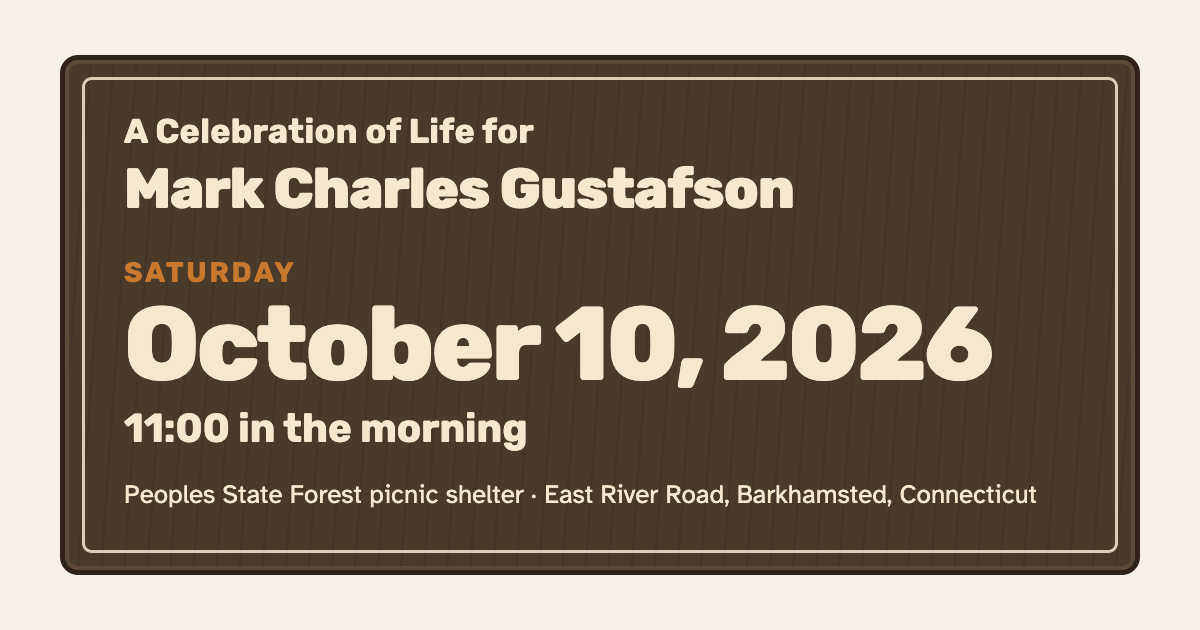
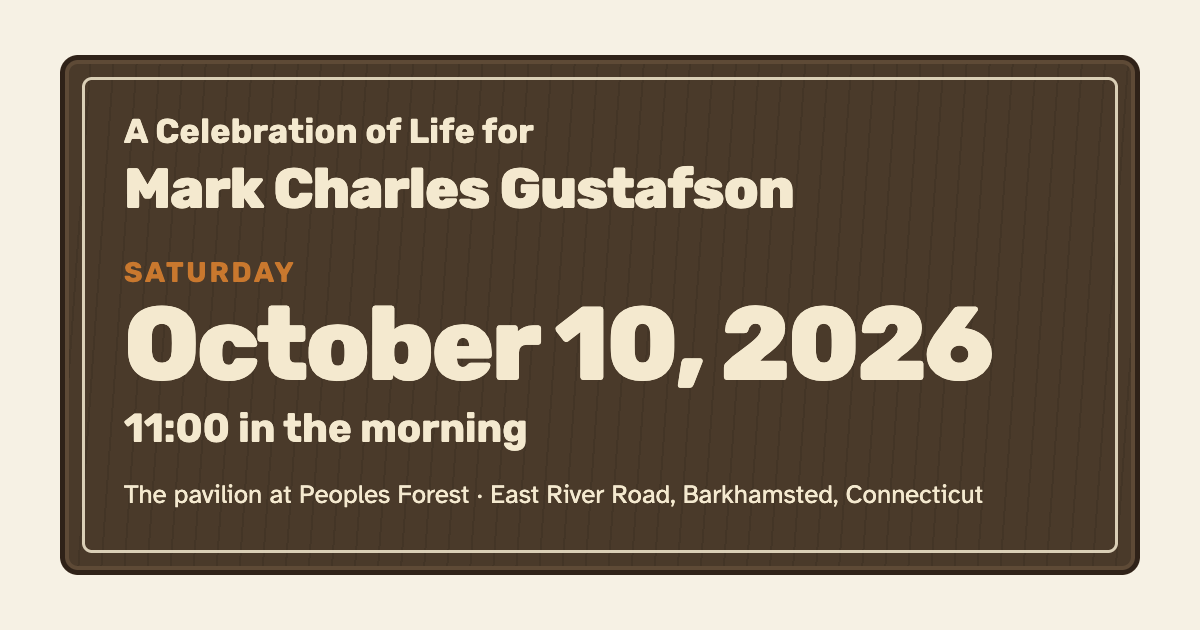
Call the venue the pavilion at Peoples Forest
Claude-Session: https://claude.ai/code/session_01D2KCLuXMmNdjBQxYMfdNqn

Changed region(s): [[0.0925, 0.754, 0.8633, 0.8143]]

diff --git a/directions.html b/directions.html
@@ -4,10 +4,10 @@
 <meta charset="utf-8">
 <meta name="viewport" content="width=device-width, initial-scale=1, viewport-fit=cover">
 <title>Getting there — Celebrate Mark</title>
-<meta name="description" content="Step-by-step directions to the Peoples State Forest picnic shelter in Barkhamsted, CT for Mark Gustafson's celebration of life on October 10, 2026, with a map of the last mile, parking, and GPS coordinates.">
+<meta name="description" content="Step-by-step directions to the pavilion at Peoples Forest in Barkhamsted, CT for Mark Gustafson's celebration of life on October 10, 2026, with a map of the last mile, parking, and GPS coordinates.">
 <link rel="canonical" href="https://celebratemark.life/directions.html">
 <meta property="og:title" content="Getting there — Celebrate Mark">
-<meta property="og:description" content="Step-by-step directions to the Peoples State Forest picnic shelter in Barkhamsted, CT for Mark Gustafson's celebration of life on October 10, 2026, with a map of the last mile, parking, and GPS coordinates.">
+<meta property="og:description" content="Step-by-step directions to the pavilion at Peoples Forest in Barkhamsted, CT for Mark Gustafson's celebration of life on October 10, 2026, with a map of the last mile, parking, and GPS coordinates.">
 <meta property="og:type" content="website">
 <meta property="og:url" content="https://celebratemark.life/directions.html">
 <meta property="og:image" content="https://celebratemark.life/assets/share-card.png">
@@ -51,7 +51,7 @@
     <div class="wrap">
       <div class="section-head">
         <h1 id="dir-title" class="page-title"><span class="plank">Getting there</span></h1>
-        <p>Peoples State Forest picnic shelter, East River Road, Barkhamsted, Connecticut 06063. Saturday, October 10, 2026 at 11:00 AM.</p>
+        <p>The pavilion at Peoples Forest, East River Road, Barkhamsted, Connecticut 06063. Saturday, October 10, 2026 at 11:00 AM.</p>
       </div>
 
       <div class="plaque-row" style="margin-top:0">
@@ -79,7 +79,7 @@
             <span class="label">Copy coordinates</span>
           </button>
         </div>
-        <div class="plaque-row" data-share-directions="Celebration of Life for Mark Gustafson. Saturday, October 10, 2026, 11:00 AM. Peoples State Forest picnic shelter, East River Road, Barkhamsted, CT 06063. From Route 44, take Route 318 in Barkhamsted, cross the steel bridge, immediate left onto East River Road, about 1 mile up on the left. GPS 41.92333, -72.99833. Park office (860) 379-2469. https://celebratemark.life/directions.html">
+        <div class="plaque-row" data-share-directions="Celebration of Life for Mark Gustafson. Saturday, October 10, 2026, 11:00 AM. The pavilion at Peoples Forest, East River Road, Barkhamsted, CT 06063. From Route 44, take Route 318 in Barkhamsted, cross the steel bridge, immediate left onto East River Road, about 1 mile up on the left. GPS 41.92333, -72.99833. Park office (860) 379-2469. https://celebratemark.life/directions.html">
           <a class="plaque" href="#" data-sms>
             <svg viewBox="0 0 24 24" fill="none" stroke="currentColor" stroke-width="2" stroke-linecap="round" stroke-linejoin="round" aria-hidden="true"><path d="M4 12l16-8-6 16-2-6-8-2z"/></svg>
             Text these directions to someone
@@ -104,13 +104,13 @@
         <li><strong>Turn onto Route 318</strong> at the traffic light in Barkhamsted, signed for Pleasant Valley. Coming from the Hartford side, Route 318 is a right turn. Coming from Winsted, it is a left.</li>
         <li><strong>Cross the steel bridge</strong> over the Farmington River. It is a short, green truss bridge; you will know it when you see it.</li>
         <li><strong>Turn left immediately</strong> after the bridge onto <strong>East River Road</strong>. The turn comes fast, right at the end of the bridge.</li>
-        <li><strong>Drive about one mile</strong> north along the river. The Peoples State Forest recreation area entrance is on your <strong>left</strong>, between the road and the river. Park in the lot and walk the short path to the shelter, about 150 feet.</li>
+        <li><strong>Drive about one mile</strong> north along the river. The Peoples State Forest recreation area entrance is on your <strong>left</strong>, between the road and the river. Park in the lot and walk the short path to the pavilion, about 150 feet.</li>
       </ol>
 
       <figure class="lastmile reveal">
         <svg viewBox="-28 -28 956 616" role="img" aria-labelledby="map-title map-desc">
           <title id="map-title">Sketch map of the last mile</title>
-          <desc id="map-desc">Route 44 runs across the bottom. Route 318 turns north from it, crosses a steel bridge over the Farmington River, and East River Road turns left right after the bridge, running north along the river about one mile to the picnic shelter, which sits between the road and the river.</desc>
+          <desc id="map-desc">Route 44 runs across the bottom. Route 318 turns north from it, crosses a steel bridge over the Farmington River, and East River Road turns left right after the bridge, running north along the river about one mile to the pavilion, which sits between the road and the river.</desc>
           <rect x="-28" y="-28" width="956" height="616" fill="#f2ecdc"/>
           <path d="M0 470 C 200 462 400 476 600 468 C 750 462 830 470 900 466 L900 560 L0 560 Z" fill="#dfe8dc" opacity=".7"/>
           <path d="M540 0 C 520 80 560 160 530 240 C 500 320 560 400 520 470 C 505 500 510 540 500 560" fill="none" stroke="#7fa3b4" stroke-width="42" stroke-linecap="round"/>
@@ -138,7 +138,7 @@
             <path d="M0 0 L26 -20 L52 0 Z" fill="#2f2218"/><path d="M6 0 H46 M10 0 V24 M42 0 V24" stroke="#2f2218" stroke-width="5" stroke-linecap="round"/>
             <circle cx="26" cy="-40" r="14" fill="#c9782e" stroke="#2f2218" stroke-width="3"/><path d="M26 -47 v14 M19 -40 h14" stroke="#2f2218" stroke-width="3" stroke-linecap="round"/>
           </g>
-          <text x="610" y="60" font-family="Rubik, sans-serif" font-weight="800" font-size="24" fill="#1f1a14">Picnic shelter</text>
+          <text x="610" y="60" font-family="Rubik, sans-serif" font-weight="800" font-size="24" fill="#1f1a14">Pavilion</text>
           <text x="610" y="86" font-family="Atkinson Hyperlegible, sans-serif" font-size="18" fill="#4d4338">parking, then a 150 ft walk</text>
           <g transform="translate(60 60)"><circle cx="0" cy="0" r="26" fill="#f4e9cf" stroke="#4a3a2a" stroke-width="3"/><path d="M0 -18 L8 8 L0 2 L-8 8 Z" fill="#4a3a2a"/><text x="0" y="46" text-anchor="middle" font-family="Rubik, sans-serif" font-weight="700" font-size="16" fill="#4a3a2a">N</text></g>
           <text x="860" y="130" text-anchor="end" font-family="Atkinson Hyperlegible, sans-serif" font-size="16" fill="#4d4338">Not to scale</text>
@@ -171,11 +171,11 @@
         <h2 id="park-title"><span class="plank">At the park</span></h2>
       </div>
       <ul class="facts">
-        <li><span class="k">Parking</span><span class="v">Free for cars with Connecticut plates. Cars with out-of-state plates pay <strong>$15 on weekends</strong> at the entrance. The lot is about 150 feet from the shelter along a level park path.</span></li>
+        <li><span class="k">Parking</span><span class="v">Free for cars with Connecticut plates. Cars with out-of-state plates pay <strong>$15 on weekends</strong> at the entrance. The lot is about 150 feet from the pavilion along a level park path.</span></li>
         <li><span class="k" id="access">If walking is hard</span><span class="v">The park does not normally allow cars up to the pavilion, but it makes arrangements in advance for anyone who needs to be dropped closer. Please call the park office at <a href="tel:+18603792469">(860) 379-2469</a> during the week before, or ask the family to arrange it for you on the <a href="share.html#rsvp">RSVP form</a>.</span></li>
-        <li><span class="k">Restrooms</span><span class="v">Flush toilets and drinking water are at the picnic area, a short walk from the shelter.</span></li>
-        <li><span class="k">The shelter</span><span class="v">A covered pavilion about 30 by 60 feet with picnic tables and a stone fireplace, open on the sides, beside the river. Seats about 100 under the roof, with room all around it.</span></li>
-        <li><span class="k">Hours</span><span class="v">The park opens at 8:00 AM. The shelter is ours until a half hour before sunset, about 5:45 PM.</span></li>
+        <li><span class="k">Restrooms</span><span class="v">Flush toilets and drinking water are at the picnic area, a short walk from the pavilion.</span></li>
+        <li><span class="k">The pavilion</span><span class="v">A covered pavilion about 30 by 60 feet with picnic tables and a stone fireplace, open on the sides, beside the river. Seats about 100 under the roof, with room all around it.</span></li>
+        <li><span class="k">Hours</span><span class="v">The park opens at 8:00 AM. The pavilion is ours until a half hour before sunset, about 5:45 PM.</span></li>
         <li><span class="k">Dogs</span><span class="v">Welcome in the park on a leash.</span></li>
         <li><span class="k">Park office</span><span class="v"><a href="tel:+18603792469">(860) 379-2469</a> · <a href="https://ctparks.com/parks/peoples-state-forest" target="_blank" rel="noopener">Peoples State Forest on ctparks.com</a></span></li>
       </ul>
@@ -187,7 +187,7 @@
 <footer class="site-footer">
   <div class="wrap">
     <p class="memo routed">In memory of Mark Charles Gustafson, November 14, 1959 to August 28, 2026.</p>
-    <p>Saturday, October 10, 2026 at 11:00 AM · Peoples State Forest picnic shelter, East River Road, Barkhamsted, CT 06063 · Park office <a href="tel:+18603792469">(860) 379-2469</a></p>
+    <p>Saturday, October 10, 2026 at 11:00 AM · The pavilion at Peoples Forest, East River Road, Barkhamsted, CT 06063 · Park office <a href="tel:+18603792469">(860) 379-2469</a></p>
     <nav aria-label="Footer">
       <ul>
         <li><a href="index.html">Home</a></li>

diff --git a/index.html b/index.html
@@ -4,10 +4,10 @@
 <meta charset="utf-8">
 <meta name="viewport" content="width=device-width, initial-scale=1, viewport-fit=cover">
 <title>Celebrate Mark — Saturday, October 10, 2026, 11 AM, Peoples State Forest</title>
-<meta name="description" content="A Celebration of Life for Mark Charles Gustafson of West Hartford, Connecticut, 1959 to 2026. Saturday, October 10, 2026 at 11:00 AM at the Peoples State Forest picnic shelter, East River Road, Barkhamsted. Directions, places to stay, his obituary, and a place to share a memory.">
+<meta name="description" content="A Celebration of Life for Mark Charles Gustafson of West Hartford, Connecticut, 1959 to 2026. Saturday, October 10, 2026 at 11:00 AM at the pavilion at Peoples Forest, East River Road, Barkhamsted. Directions, places to stay, his obituary, and a place to share a memory.">
 <link rel="canonical" href="https://celebratemark.life/">
 <meta property="og:title" content="Celebrate Mark — Saturday, October 10, 2026">
-<meta property="og:description" content="A Celebration of Life for Mark Charles Gustafson. 11:00 AM at the Peoples State Forest picnic shelter, Barkhamsted, CT.">
+<meta property="og:description" content="A Celebration of Life for Mark Charles Gustafson. 11:00 AM at the pavilion at Peoples Forest, Barkhamsted, CT.">
 <meta property="og:type" content="website">
 <meta property="og:url" content="https://celebratemark.life/">
 <meta property="og:image" content="https://celebratemark.life/assets/share-card.png">
@@ -29,7 +29,7 @@
   "eventAttendanceMode": "https://schema.org/OfflineEventAttendanceMode",
   "location": {
     "@type": "Place",
-    "name": "Peoples State Forest picnic shelter",
+    "name": "The pavilion at Peoples Forest",
     "address": { "@type": "PostalAddress", "streetAddress": "East River Road", "addressLocality": "Barkhamsted", "addressRegion": "CT", "postalCode": "06063", "addressCountry": "US" },
     "geo": { "@type": "GeoCoordinates", "latitude": 41.92333, "longitude": -72.99833 }
   },
@@ -81,7 +81,7 @@
         <div class="place cut">
           <svg viewBox="0 0 24 24" fill="none" stroke="currentColor" stroke-width="2" stroke-linecap="round" stroke-linejoin="round" aria-hidden="true"><path d="M12 21s-7-6.2-7-11a7 7 0 0 1 14 0c0 4.8-7 11-7 11z"/><circle cx="12" cy="10" r="2.5"/></svg>
           <div>
-            <div class="place-name routed">Peoples State Forest picnic shelter</div>
+            <div class="place-name routed">The pavilion at Peoples Forest</div>
             <div class="place-detail">East River Road, Barkhamsted, Connecticut · on the Farmington River · about 40 minutes from West Hartford</div>
           </div>
         </div>
@@ -125,12 +125,12 @@
         <p>Everything you need to know to get there and be comfortable. Full details are on the other pages.</p>
       </div>
       <ul class="facts reveal">
-        <li><span class="k">When</span><span class="v">Saturday, October 10, 2026, beginning at 11:00 AM. <small>Come when you can. The park asks everyone to leave the shelter by a half hour before sunset, about 5:45 PM.</small></span></li>
-        <li><span class="k">Where</span><span class="v">The picnic shelter at Peoples State Forest, East River Road, Barkhamsted, CT 06063. <small>The shelter is a covered pavilion with open sides, on the Farmington River. It is a short, level walk of about 150 feet from the parking area.</small></span></li>
+        <li><span class="k">When</span><span class="v">Saturday, October 10, 2026, beginning at 11:00 AM. <small>Come when you can. The park asks everyone to leave the pavilion by a half hour before sunset, about 5:45 PM.</small></span></li>
+        <li><span class="k">Where</span><span class="v">The pavilion at Peoples Forest, East River Road, Barkhamsted, CT 06063. <small>The pavilion is covered, with open sides, on the Farmington River. It is a short, level walk of about 150 feet from the parking area.</small></span></li>
         <li><span class="k">Getting there</span><span class="v">From Route 44, take Route 318 in Barkhamsted, cross the steel bridge over the river, and turn left immediately onto East River Road. The recreation area is about a mile up on the left. <small><a href="directions.html">Step-by-step directions and a map</a></small></span></li>
-        <li><span class="k">Parking</span><span class="v">Free for cars with Connecticut plates. Out-of-state plates pay $15 at the gate on weekends. <small>If you cannot walk from the parking area, see <a href="questions.html#access">the note about getting closer to the shelter</a>.</small></span></li>
-        <li><span class="k">What to wear</span><span class="v">Whatever is comfortable outdoors in October. Layers and sturdy shoes. <small>Mornings in the river valley can be in the 40s; afternoons are usually in the 50s or 60s. The shelter has a roof, so we gather rain or shine.</small></span></li>
-        <li><span class="k">Restrooms</span><span class="v">Flush restrooms and drinking water are at the picnic area, about 150 feet from the shelter.</span></li>
+        <li><span class="k">Parking</span><span class="v">Free for cars with Connecticut plates. Out-of-state plates pay $15 at the gate on weekends. <small>If you cannot walk from the parking area, see <a href="questions.html#access">the note about getting closer to the pavilion</a>.</small></span></li>
+        <li><span class="k">What to wear</span><span class="v">Whatever is comfortable outdoors in October. Layers and sturdy shoes. <small>Mornings in the river valley can be in the 40s; afternoons are usually in the 50s or 60s. The pavilion has a roof, so we gather rain or shine.</small></span></li>
+        <li><span class="k">Restrooms</span><span class="v">Flush restrooms and drinking water are at the picnic area, about 150 feet from the pavilion.</span></li>
         <li><span class="k">Staying over</span><span class="v">October 10 is the Saturday of Columbus Day weekend and peak foliage in the Litchfield Hills. Rooms go early. <small><a href="stay.html">Places to stay, from Riverton to West Hartford</a></small></span></li>
         <li><span class="k">Flowers</span><span class="v">Instead of flowers, the family asks you to consider a gift to Big Brothers Big Sisters of Connecticut. <small>Mark was a dedicated Big Brother.</small></span></li>
       </ul>
@@ -141,7 +141,7 @@
     <div class="wrap summary">
       <div>
         <h2 id="go-title"><span class="plank plank--pine">Getting there</span></h2>
-        <p>Peoples State Forest is in the Pleasant Valley part of Barkhamsted, on the east bank of the Farmington River. Fly fishing and walks in the woods brought Mark peace, and the shelter sits in the pines beside the water. From West Hartford it is a straight run west on Route 44 through Avon, Canton, and New Hartford, then a few minutes on Route 318 and East River Road.</p>
+        <p>Peoples State Forest is in the Pleasant Valley part of Barkhamsted, on the east bank of the Farmington River. Fly fishing and walks in the woods brought Mark peace, and the pavilion sits in the pines beside the water. From West Hartford it is a straight run west on Route 44 through Avon, Canton, and New Hartford, then a few minutes on Route 318 and East River Road.</p>
         <p>Cell service is unreliable in the river valley. Please look at the directions before you set out, or send them to your phone from the directions page.</p>
         <a class="plaque plaque--pine" href="directions.html">
           <svg viewBox="0 0 24 24" fill="none" stroke="currentColor" stroke-width="2.2" stroke-linecap="round" stroke-linejoin="round" aria-hidden="true"><path d="M4 12h16M13 5l7 7-7 7"/></svg>
@@ -150,7 +150,7 @@
       </div>
       <div class="notice notice--blaze">
         <h3>If your GPS gets confused</h3>
-        <p>Some map apps do not know the shelter by name. Search for <strong>Peoples State Forest, East River Road, Barkhamsted, CT</strong>, or use these coordinates:</p>
+        <p>Some map apps do not know the pavilion by name. Search for <strong>Peoples State Forest, East River Road, Barkhamsted, CT</strong>, or use these coordinates:</p>
         <p><strong>41.92333, −72.99833</strong></p>
         <div class="plaque-row">
           <a class="plaque" href="tel:+18603792469">
@@ -224,7 +224,7 @@
 <footer class="site-footer">
   <div class="wrap">
     <p class="memo routed">In memory of Mark Charles Gustafson, November 14, 1959 to August 28, 2026.</p>
-    <p>Saturday, October 10, 2026 at 11:00 AM · Peoples State Forest picnic shelter, East River Road, Barkhamsted, CT 06063 · Park office <a href="tel:+18603792469">(860) 379-2469</a></p>
+    <p>Saturday, October 10, 2026 at 11:00 AM · The pavilion at Peoples Forest, East River Road, Barkhamsted, CT 06063 · Park office <a href="tel:+18603792469">(860) 379-2469</a></p>
     <nav aria-label="Footer">
       <ul>
         <li><a href="index.html">Home</a></li>

diff --git a/questions.html b/questions.html
@@ -57,11 +57,11 @@
       <div class="faq">
         <details open>
           <summary>When and where, once more?<svg viewBox="0 0 24 24" fill="none" stroke="currentColor" stroke-width="2.4" stroke-linecap="round" aria-hidden="true"><path d="M12 5v14M5 12h14"/></svg></summary>
-          <div class="answer"><p>Saturday, October 10, 2026, beginning at 11:00 AM, at the picnic shelter in Peoples State Forest, East River Road, Barkhamsted, Connecticut. <a href="directions.html">Directions are here.</a></p></div>
+          <div class="answer"><p>Saturday, October 10, 2026, beginning at 11:00 AM, at the pavilion at Peoples Forest, East River Road, Barkhamsted, Connecticut. <a href="directions.html">Directions are here.</a></p></div>
         </details>
         <details>
           <summary>Is it outdoors? What if it rains?<svg viewBox="0 0 24 24" fill="none" stroke="currentColor" stroke-width="2.4" stroke-linecap="round" aria-hidden="true"><path d="M12 5v14M5 12h14"/></svg></summary>
-          <div class="answer"><p>Yes. The shelter is a large covered pavilion with open sides and a stone fireplace, beside the river. It has a roof, so we gather rain or shine. Bring a jacket either way; the river valley is cooler than the city.</p></div>
+          <div class="answer"><p>Yes. The pavilion is large and covered, with open sides and a stone fireplace, beside the river. It has a roof, so we gather rain or shine. Bring a jacket either way; the river valley is cooler than the city.</p></div>
         </details>
         <details>
           <summary>What should I wear?<svg viewBox="0 0 24 24" fill="none" stroke="currentColor" stroke-width="2.4" stroke-linecap="round" aria-hidden="true"><path d="M12 5v14M5 12h14"/></svg></summary>
@@ -72,20 +72,20 @@
           <div class="answer"><p>Early October in the Litchfield Hills usually means mornings in the 40s and afternoons in the 50s or 60s, with the leaves near their peak. Check a forecast for Barkhamsted the week before.</p></div>
         </details>
         <details id="access">
-          <summary>I have trouble walking. Can I get closer to the shelter?<svg viewBox="0 0 24 24" fill="none" stroke="currentColor" stroke-width="2.4" stroke-linecap="round" aria-hidden="true"><path d="M12 5v14M5 12h14"/></svg></summary>
-          <div class="answer"><p>The walk from the parking lot to the shelter is about 150 feet on a mostly level park path. The park does not normally allow cars up to the pavilion, but it does make arrangements in advance for anyone who needs a drop-off closer. Please call the park office at <a href="tel:+18603792469">(860) 379-2469</a> the week before, or mention it in the note on the <a href="share.html#rsvp">RSVP form</a> and the family will arrange it. There will be seating at the shelter, and the restrooms are close by.</p></div>
+          <summary>I have trouble walking. Can I get closer to the pavilion?<svg viewBox="0 0 24 24" fill="none" stroke="currentColor" stroke-width="2.4" stroke-linecap="round" aria-hidden="true"><path d="M12 5v14M5 12h14"/></svg></summary>
+          <div class="answer"><p>The walk from the parking lot to the pavilion is about 150 feet on a mostly level park path. The park does not normally allow cars up to the pavilion, but it does make arrangements in advance for anyone who needs a drop-off closer. Please call the park office at <a href="tel:+18603792469">(860) 379-2469</a> the week before, or mention it in the note on the <a href="share.html#rsvp">RSVP form</a> and the family will arrange it. There will be seating at the pavilion, and the restrooms are close by.</p></div>
         </details>
         <details>
           <summary>Is there parking? Does it cost anything?<svg viewBox="0 0 24 24" fill="none" stroke="currentColor" stroke-width="2.4" stroke-linecap="round" aria-hidden="true"><path d="M12 5v14M5 12h14"/></svg></summary>
-          <div class="answer"><p>There is a parking lot about 150 feet from the shelter. Cars with Connecticut plates park free. Cars with out-of-state plates pay $15 at the entrance on weekends. Bring a card or cash in case the attendant cannot take one or the other.</p></div>
+          <div class="answer"><p>There is a parking lot about 150 feet from the pavilion. Cars with Connecticut plates park free. Cars with out-of-state plates pay $15 at the entrance on weekends. Bring a card or cash in case the attendant cannot take one or the other.</p></div>
         </details>
         <details>
           <summary>Are there restrooms?<svg viewBox="0 0 24 24" fill="none" stroke="currentColor" stroke-width="2.4" stroke-linecap="round" aria-hidden="true"><path d="M12 5v14M5 12h14"/></svg></summary>
-          <div class="answer"><p>Yes. Flush restrooms and drinking-water taps are at the picnic area, a short walk from the shelter.</p></div>
+          <div class="answer"><p>Yes. Flush restrooms and drinking-water taps are at the picnic area, a short walk from the pavilion.</p></div>
         </details>
         <details>
           <summary>Will there be food?<svg viewBox="0 0 24 24" fill="none" stroke="currentColor" stroke-width="2.4" stroke-linecap="round" aria-hidden="true"><path d="M12 5v14M5 12h14"/></svg></summary>
-          <div class="answer"><p>The family is working out the details and will update this page. Either way, bring a water bottle; the day is long and the river air is dry. Please note the park does not allow the shelter fireplace to be used for cooking.</p></div>
+          <div class="answer"><p>The family is working out the details and will update this page. Either way, bring a water bottle; the day is long and the river air is dry. Please note the park does not allow the pavilion fireplace to be used for cooking.</p></div>
         </details>
         <details>
           <summary>Is there a program or a set time for speaking?<svg viewBox="0 0 24 24" fill="none" stroke="currentColor" stroke-width="2.4" stroke-linecap="round" aria-hidden="true"><path d="M12 5v14M5 12h14"/></svg></summary>
@@ -97,7 +97,7 @@
         </details>
         <details>
           <summary>When does it end?<svg viewBox="0 0 24 24" fill="none" stroke="currentColor" stroke-width="2.4" stroke-linecap="round" aria-hidden="true"><path d="M12 5v14M5 12h14"/></svg></summary>
-          <div class="answer"><p>Come when you can and stay as long as you like. The park asks everyone to leave the shelter by a half hour before sunset, which is about 5:45 PM in October.</p></div>
+          <div class="answer"><p>Come when you can and stay as long as you like. The park asks everyone to leave the pavilion by a half hour before sunset, which is about 5:45 PM in October.</p></div>
         </details>
         <details>
           <summary>Flowers or donations?<svg viewBox="0 0 24 24" fill="none" stroke="currentColor" stroke-width="2.4" stroke-linecap="round" aria-hidden="true"><path d="M12 5v14M5 12h14"/></svg></summary>
@@ -124,7 +124,7 @@
 <footer class="site-footer">
   <div class="wrap">
     <p class="memo routed">In memory of Mark Charles Gustafson, November 14, 1959 to August 28, 2026.</p>
-    <p>Saturday, October 10, 2026 at 11:00 AM · Peoples State Forest picnic shelter, East River Road, Barkhamsted, CT 06063 · Park office <a href="tel:+18603792469">(860) 379-2469</a></p>
+    <p>Saturday, October 10, 2026 at 11:00 AM · The pavilion at Peoples Forest, East River Road, Barkhamsted, CT 06063 · Park office <a href="tel:+18603792469">(860) 379-2469</a></p>
     <nav aria-label="Footer">
       <ul>
         <li><a href="index.html">Home</a></li>

diff --git a/thanks.html b/thanks.html
@@ -53,7 +53,7 @@
       <div class="board">
         <h1 id="thanks-title" class="routed board-title">Thank you.</h1>
         <p class="board-text">Your message is on its way to Alex and Molly. They will read it soon.</p>
-        <p class="board-text">Saturday, October 10, 2026 at 11:00 AM · Peoples State Forest picnic shelter, Barkhamsted.</p>
+        <p class="board-text">Saturday, October 10, 2026 at 11:00 AM · The pavilion at Peoples Forest, Barkhamsted.</p>
         <div class="plaque-row">
           <a class="plaque plaque--blaze" href="directions.html">
             <svg viewBox="0 0 24 24" fill="none" stroke="currentColor" stroke-width="2.2" stroke-linecap="round" stroke-linejoin="round" aria-hidden="true"><path d="M4 12h16M13 5l7 7-7 7"/></svg>
@@ -74,7 +74,7 @@
 <footer class="site-footer">
   <div class="wrap">
     <p class="memo routed">In memory of Mark Charles Gustafson, November 14, 1959 to August 28, 2026.</p>
-    <p>Saturday, October 10, 2026 at 11:00 AM · Peoples State Forest picnic shelter, East River Road, Barkhamsted, CT 06063 · Park office <a href="tel:+18603792469">(860) 379-2469</a></p>
+    <p>Saturday, October 10, 2026 at 11:00 AM · The pavilion at Peoples Forest, East River Road, Barkhamsted, CT 06063 · Park office <a href="tel:+18603792469">(860) 379-2469</a></p>
     <nav aria-label="Footer">
       <ul>
         <li><a href="index.html">Home</a></li>

diff --git a/share.html b/share.html
@@ -93,7 +93,7 @@
           <legend>Anything the family should know?</legend>
           <div class="field">
             <label for="rsvp-note">A note <span class="fine">(optional)</span></label>
-            <span class="hint">For example: someone in your party needs to be dropped close to the shelter, or you are coming from far away and would like help with a room.</span>
+            <span class="hint">For example: someone in your party needs to be dropped close to the pavilion, or you are coming from far away and would like help with a room.</span>
             <textarea id="rsvp-note" name="Note" rows="4"></textarea>
           </div>
         </fieldset>
@@ -164,7 +164,7 @@
 <footer class="site-footer">
   <div class="wrap">
     <p class="memo routed">In memory of Mark Charles Gustafson, November 14, 1959 to August 28, 2026.</p>
-    <p>Saturday, October 10, 2026 at 11:00 AM · Peoples State Forest picnic shelter, East River Road, Barkhamsted, CT 06063 · Park office <a href="tel:+18603792469">(860) 379-2469</a></p>
+    <p>Saturday, October 10, 2026 at 11:00 AM · The pavilion at Peoples Forest, East River Road, Barkhamsted, CT 06063 · Park office <a href="tel:+18603792469">(860) 379-2469</a></p>
     <nav aria-label="Footer">
       <ul>
         <li><a href="index.html">Home</a></li>

diff --git a/mark.html b/mark.html
@@ -112,7 +112,7 @@
 <footer class="site-footer">
   <div class="wrap">
     <p class="memo routed">In memory of Mark Charles Gustafson, November 14, 1959 to August 28, 2026.</p>
-    <p>Saturday, October 10, 2026 at 11:00 AM · Peoples State Forest picnic shelter, East River Road, Barkhamsted, CT 06063 · Park office <a href="tel:+18603792469">(860) 379-2469</a></p>
+    <p>Saturday, October 10, 2026 at 11:00 AM · The pavilion at Peoples Forest, East River Road, Barkhamsted, CT 06063 · Park office <a href="tel:+18603792469">(860) 379-2469</a></p>
     <nav aria-label="Footer">
       <ul>
         <li><a href="index.html">Home</a></li>

diff --git a/stay.html b/stay.html
@@ -211,7 +211,7 @@
 <footer class="site-footer">
   <div class="wrap">
     <p class="memo routed">In memory of Mark Charles Gustafson, November 14, 1959 to August 28, 2026.</p>
-    <p>Saturday, October 10, 2026 at 11:00 AM · Peoples State Forest picnic shelter, East River Road, Barkhamsted, CT 06063 · Park office <a href="tel:+18603792469">(860) 379-2469</a></p>
+    <p>Saturday, October 10, 2026 at 11:00 AM · The pavilion at Peoples Forest, East River Road, Barkhamsted, CT 06063 · Park office <a href="tel:+18603792469">(860) 379-2469</a></p>
     <nav aria-label="Footer">
       <ul>
         <li><a href="index.html">Home</a></li>

diff --git a/404.html b/404.html
@@ -68,7 +68,7 @@
 <footer class="site-footer">
   <div class="wrap">
     <p class="memo routed">In memory of Mark Charles Gustafson, November 14, 1959 to August 28, 2026.</p>
-    <p>Saturday, October 10, 2026 at 11:00 AM · Peoples State Forest picnic shelter, East River Road, Barkhamsted, CT 06063 · Park office <a href="tel:+18603792469">(860) 379-2469</a></p>
+    <p>Saturday, October 10, 2026 at 11:00 AM · The pavilion at Peoples Forest, East River Road, Barkhamsted, CT 06063 · Park office <a href="tel:+18603792469">(860) 379-2469</a></p>
     <nav aria-label="Footer">
       <ul>
         <li><a href="index.html">Home</a></li>

diff --git a/PRODUCT.md b/PRODUCT.md
@@ -45,15 +45,15 @@ getting people there and holding them well once they arrive.
 
 **The event (confirmed by the family):**
 - Saturday, October 10, 2026, beginning at 11:00 AM.
-- Peoples State Forest picnic shelter, East River Road, Pleasant Valley section of
+- the pavilion at Peoples Forest, East River Road, Pleasant Valley section of
   Barkhamsted, CT 06063. GPS 41.92333, -72.99833. Park phone (860) 379-2469.
 - Directions from Route 44: take Route 318 in Barkhamsted, cross the steel bridge over
   the Farmington River, immediate left onto East River Road, recreation area about one
   mile up on the left.
-- Shelter: covered 30 x 60 ft pavilion, seats about 100, 10 picnic tables, a large
+- Pavilion: covered 30 x 60 ft pavilion, seats about 100, 10 picnic tables, a large
   fireplace (not for cooking). Flush restrooms and drinking water taps on site;
-  restrooms about 150 ft from the shelter, parking about 150 ft.
-- Park rules (from CT DEEP / ReserveAmerica): shelter use until a half hour before
+  restrooms about 150 ft from the pavilion, parking about 150 ft.
+- Park rules (from CT DEEP / ReserveAmerica): pavilion use until a half hour before
   sunset; no amplified music; no bounce houses; no generators; no personal or caterer
   vehicles up to the pavilion (handicap vehicles by advance arrangement with the park);
   pets on leash. Parking: free for Connecticut-plated cars; out-of-state plates $15

diff --git a/README.md b/README.md
@@ -1,7 +1,7 @@
 # celebratemark.life
 
 The website for the Celebration of Life for Mark Charles Gustafson.
-Saturday, October 10, 2026 at 11:00 AM, Peoples State Forest picnic shelter, Barkhamsted, CT.
+Saturday, October 10, 2026 at 11:00 AM, the pavilion at Peoples Forest, Barkhamsted, CT.
 
 It is plain HTML, CSS, and a little JavaScript. There is nothing to install or build.
 GitHub Pages serves it at https://celebratemark.life.
